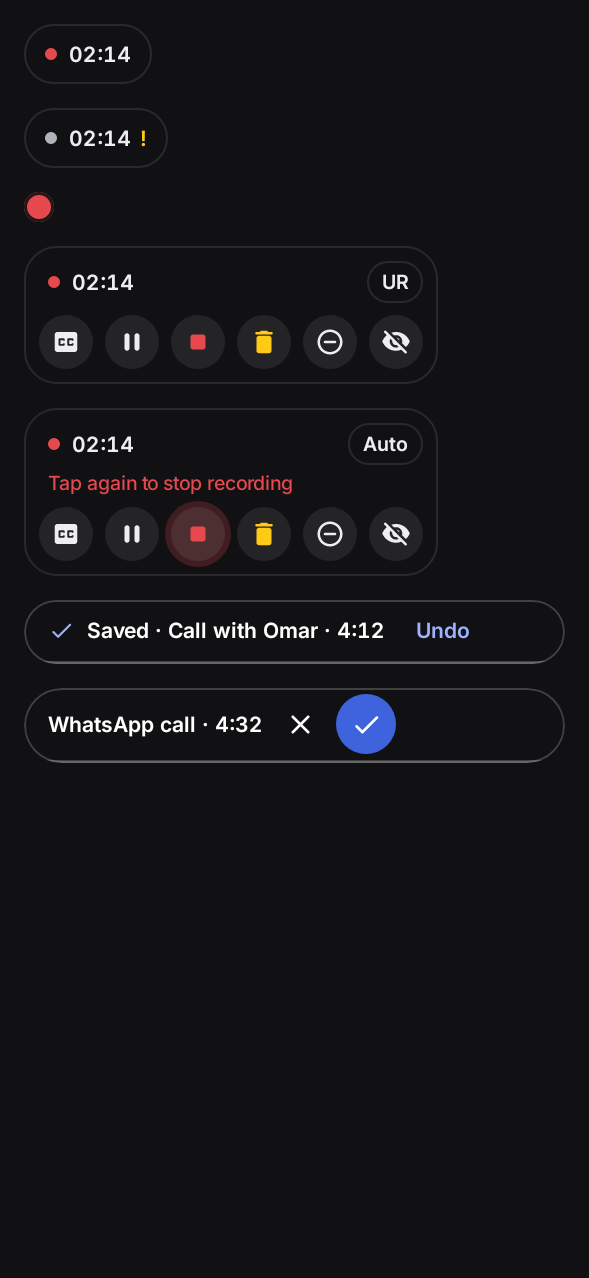
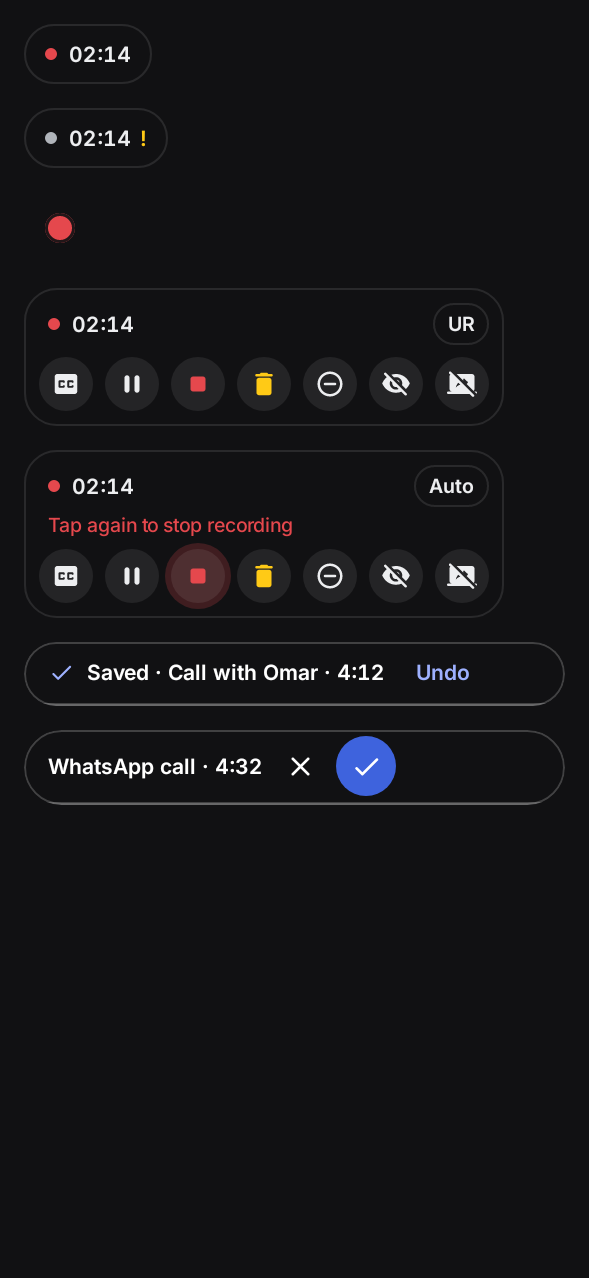
Phone: the minimised recording dot is a 48 dp button TalkBack can press ("Open the recording controls")
The dot was 20 dp and answered only to touch (pointerInput), like the grey dot before u23. Now the 20 dp dot sits in a
48 dp touch target with a button action, so a tap or TalkBack's double-tap opens the recording controls; it says
"Recording" or "Recording paused". A drag still moves it, and its tap is no longer handled twice.

Tests: PrivateDotTest (+1: size, role, action label, a tap beside the dot, a drag does not open it, paused).
Screenshots light and dark: phone-pill (the dot in its target).

diff --git a/mobile/app/src/test/java/com/echoledger/mobile/overlay/PrivateDotTest.kt b/mobile/app/src/test/java/com/echoledger/mobile/overlay/PrivateDotTest.kt
@@ -1,6 +1,8 @@
 package com.echoledger.mobile.overlay
 
 import androidx.compose.foundation.gestures.detectDragGestures
+import androidx.compose.runtime.getValue
+import androidx.compose.runtime.setValue
 import androidx.compose.ui.Modifier
 import androidx.compose.ui.geometry.Offset
 import androidx.compose.ui.input.pointer.pointerInput
@@ -78,6 +80,43 @@ class PrivateDotTest : ScreenTest() {
         assertTrue("the drag reached the recording controls", dragged < 0f)
         dot.performClick()
         assertEquals(1, shown)
+    }
+
+    /** The minimised recording dot (v1.8 0.2 brief, like u23): 48 dp, a button TalkBack can press, a drag moves it. */
+    @Test
+    fun `the minimised dot is a 48 dp button that opens the recording controls`() {
+        var opened = 0
+        var dragged = 0f
+        var state by androidx.compose.runtime.mutableStateOf(PillState(mode = PillState.Mode.DOT))
+        show {
+            PillDot(
+                state,
+                modifier = Modifier.pointerInput(Unit) {
+                    detectDragGestures { change, amount ->
+                        change.consume()
+                        dragged += amount.x
+                    }
+                },
+                onOpen = { opened++ }
+            )
+        }
+        val dot = compose.onNodeWithContentDescription("Recording")
+        dot.assertWidthIsEqualTo(48.dp).assertHeightIsEqualTo(48.dp)
+        dot.assert(SemanticsMatcher.expectValue(SemanticsProperties.Role, Role.Button))
+        dot.assert(
+            SemanticsMatcher("double-tap says Open the recording controls") {
+                it.config.getOrElseNullable(SemanticsActions.OnClick) { null }?.label == "Open the recording controls"
+            }
+        )
+        dot.performSemanticsAction(SemanticsActions.OnClick)
+        dot.performTouchInput { click(Offset(center.x + 18.dp.toPx(), center.y)) } // outside the 20 dp dot, inside 48 dp
+        assertEquals(2, opened)
+        dot.performTouchInput { swipeLeft() }
+        assertEquals("a drag moves it and does not open it", 2, opened)
+        assertTrue(dragged < 0f)
+
+        state = state.copy(paused = true)
+        compose.onNodeWithContentDescription("Recording paused").assertExists()
     }
 
     @Test

diff --git a/mobile/app/src/main/java/com/echoledger/mobile/overlay/ControlPill.kt b/mobile/app/src/main/java/com/echoledger/mobile/overlay/ControlPill.kt
@@ -220,22 +220,23 @@ class ControlPill(
                         dragBy(amount.x, amount.y)
                     }
                 }
+            // The dots take their tap as a button (TalkBack can press it); a drag still moves them.
+            val drags = Modifier.pointerInput(Unit) {
+                detectDragGestures(onDragEnd = { dropped() }) { change, amount ->
+                    change.consume()
+                    dragBy(amount.x, amount.y)
+                }
+            }
             val private = !ShareGuard.textVisible.collectAsState().value
             if (private && s.mode != PillState.Mode.HIDDEN) {
                 // Hidden, or in a screen share Android reports: a plain grey dot, no clock, language or buttons. A tap
                 // shows the windows the person hid; while Android reports a screen share they stay a dot until it ends.
-                val drags = Modifier.pointerInput(Unit) {
-                    detectDragGestures(onDragEnd = { dropped() }) { change, amount ->
-                        change.consume()
-                        dragBy(amount.x, amount.y)
-                    }
-                }
                 PrivateDot(onShow = { ShareGuard.setHidden(false) }, modifier = drags)
                 return
             }
             when (s.mode) {
                 PillState.Mode.HIDDEN -> Unit
-                PillState.Mode.DOT -> PillDot(s, drag)
+                PillState.Mode.DOT -> PillDot(s, drags, onOpen = { onEvent(PillEvent.Tap) })
                 PillState.Mode.PILL -> PillView(s, drag, onEvent)
                 PillState.Mode.MENU -> PillToolbar(s, header = drag, onEvent = onEvent)
             }

diff --git a/mobile/app/src/main/java/com/echoledger/mobile/overlay/PillViews.kt b/mobile/app/src/main/java/com/echoledger/mobile/overlay/PillViews.kt
@@ -113,17 +113,26 @@ internal fun PillView(s: PillState, modifier: Modifier = Modifier, onEvent: (Pil
     }
 }
 
-/** Minimised: a 20 dp dot at the edge (grey while paused). */
+/**
+ * Minimised: a 20 dp dot at the edge (grey while paused) in a 48 dp touch target. A tap, or TalkBack's double-tap, is
+ * [onOpen]: the recording controls open.
+ */
 @Composable
-internal fun PillDot(s: PillState, modifier: Modifier = Modifier) {
+internal fun PillDot(s: PillState, modifier: Modifier = Modifier, onOpen: () -> Unit = {}) {
     Box(
         modifier
-            .size(20.dp)
-            .background(if (s.paused) PILL_MUTED else PILL_REC, CircleShape)
-            .border(2.dp, PILL_BG, CircleShape)
-            .semantics { contentDescription = "Recording. Tap for the controls." }
-    )
+            .size(48.dp)
+            .clip(CircleShape)
+            .clickable(role = Role.Button, onClickLabel = OPEN_CONTROLS, onClick = onOpen)
+            .semantics { contentDescription = if (s.paused) "Recording paused" else "Recording" },
+        contentAlignment = Alignment.Center
+    ) {
+        Box(Modifier.size(20.dp).background(if (s.paused) PILL_MUTED else PILL_REC, CircleShape).border(2.dp, PILL_BG, CircleShape))
+    }
 }
+
+/** What a tap on the minimised dot does. */
+internal const val OPEN_CONTROLS = "Open the recording controls"
 
 /**
  * While EchoLedger's floating windows are hidden (Hide EchoLedger windows, or a screen share Android reports): a plain
